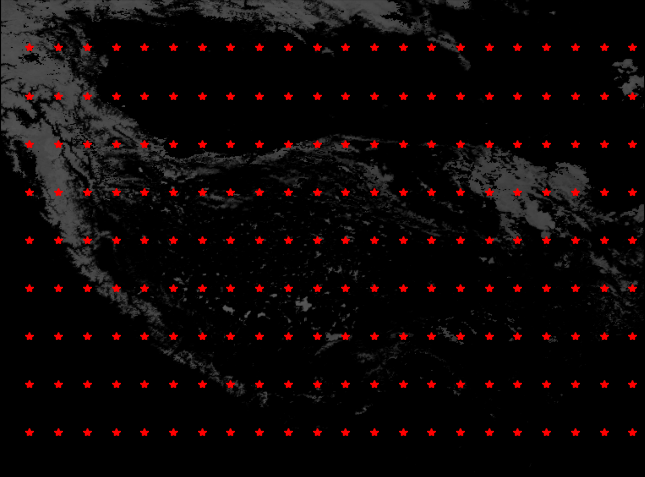
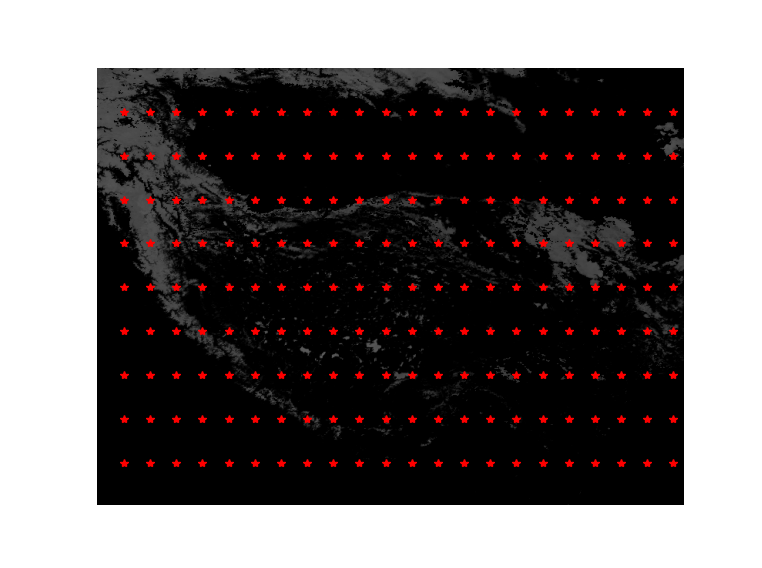
Update

diff --git a/visualizer.py b/visualizer.py
@@ -40,17 +40,19 @@ class Sampler:
     def show_pois(self):
         self.image = Image.fromarray(self.img_array, mode='L').convert('RGB')
         print(self.image.size)
-        x = []
-        y = []
+        x = [112,252,397,86,436,426,11,140,338,100,43,402,94,453,130,171,399,265,61,107,8,322,328,274,257,409,104,359,281,413,350,85,357,436,30,10,455,322,12,35,49,354,354,15,74,54,25,530,78,75,544,47,110,7,17,40,72,22,8,52,21,7,19,68,84,4,70,756,31,743,107,84,44,753,9,15,17,3,134,121,127,136,121,10,18,9,12,74,24,138,36,39,58,54,97,100,50,102,395,556,48,568,344,382,409,331,98,83,316,76,200,325,86,189,401,69,242,94,661,76,683,407,402,47,636,231,565,661,688,615,227,442,55,587,659,148,573,696,71,75,358,557,59,610,53,437,600,69,662,431,591,653,325,131,242,598,602,678,603,80,406,594,395,761,63,651,77,103,405,689,652,93,81,128,132,74,590,97,610,90,99,703,125,368,258,715,109,130,737,525,527,388,652,440,431,257,254,374]
+        y = [0,0,0,3,3,4,6,6,6,7,8,8,10,10,11,11,11,12,13,13,14,14,15,16,17,17,18,18,22,22,26,27,30,30,32,33,35,37,39,42,44,44,46,52,53,55,59,60,61,70,70,72,73,74,74,74,76,80,84,84,85,92,92,94,95,96,100,100,102,103,106,108,112,112,122,124,127,134,134,135,135,141,144,145,149,150,150,150,153,153,155,160,160,162,169,169,171,172,172,174,175,175,176,179,181,182,183,187,188,189,189,190,192,193,193,195,195,197,199,200,200,201,203,204,205,206,206,207,208,209,211,211,212,212,213,214,214,215,216,218,219,219,220,221,222,222,222,223,223,226,228,230,231,233,233,235,237,241,242,245,247,248,250,250,260,264,269,269,270,270,275,278,281,282,284,288,288,293,295,304,310,313,323,323,328,328,332,337,345,390,391,399,404,415,427,442,444,447]
         i = 0
         for row in range(self.image.size[0]):
             for col in range(self.image.size[1]):
-                # if((row % 34 == 0) & (col % 57 == 0) & (row != 0) & (col != 0)):
-                if(self.practical_p(self.img_array[col][row])):
-                    x.append(row)
-                    y.append(col)
+                if((row % 34 == 0) & (col % 57 == 0) & (row != 0) & (col != 0)):
+                    # if(self.practical_p(self.img_array[col][row])):
+                    #x.append(row)
+                    #y.append(col)
                     i += 1
         print(i)
+        pylab.figure(figsize=(762/100,569/100),dpi=100)
+        pylab.axis('off')
         pylab.imshow(self.image)
         pylab.plot(x, y, 'r*')
         pylab.show()
